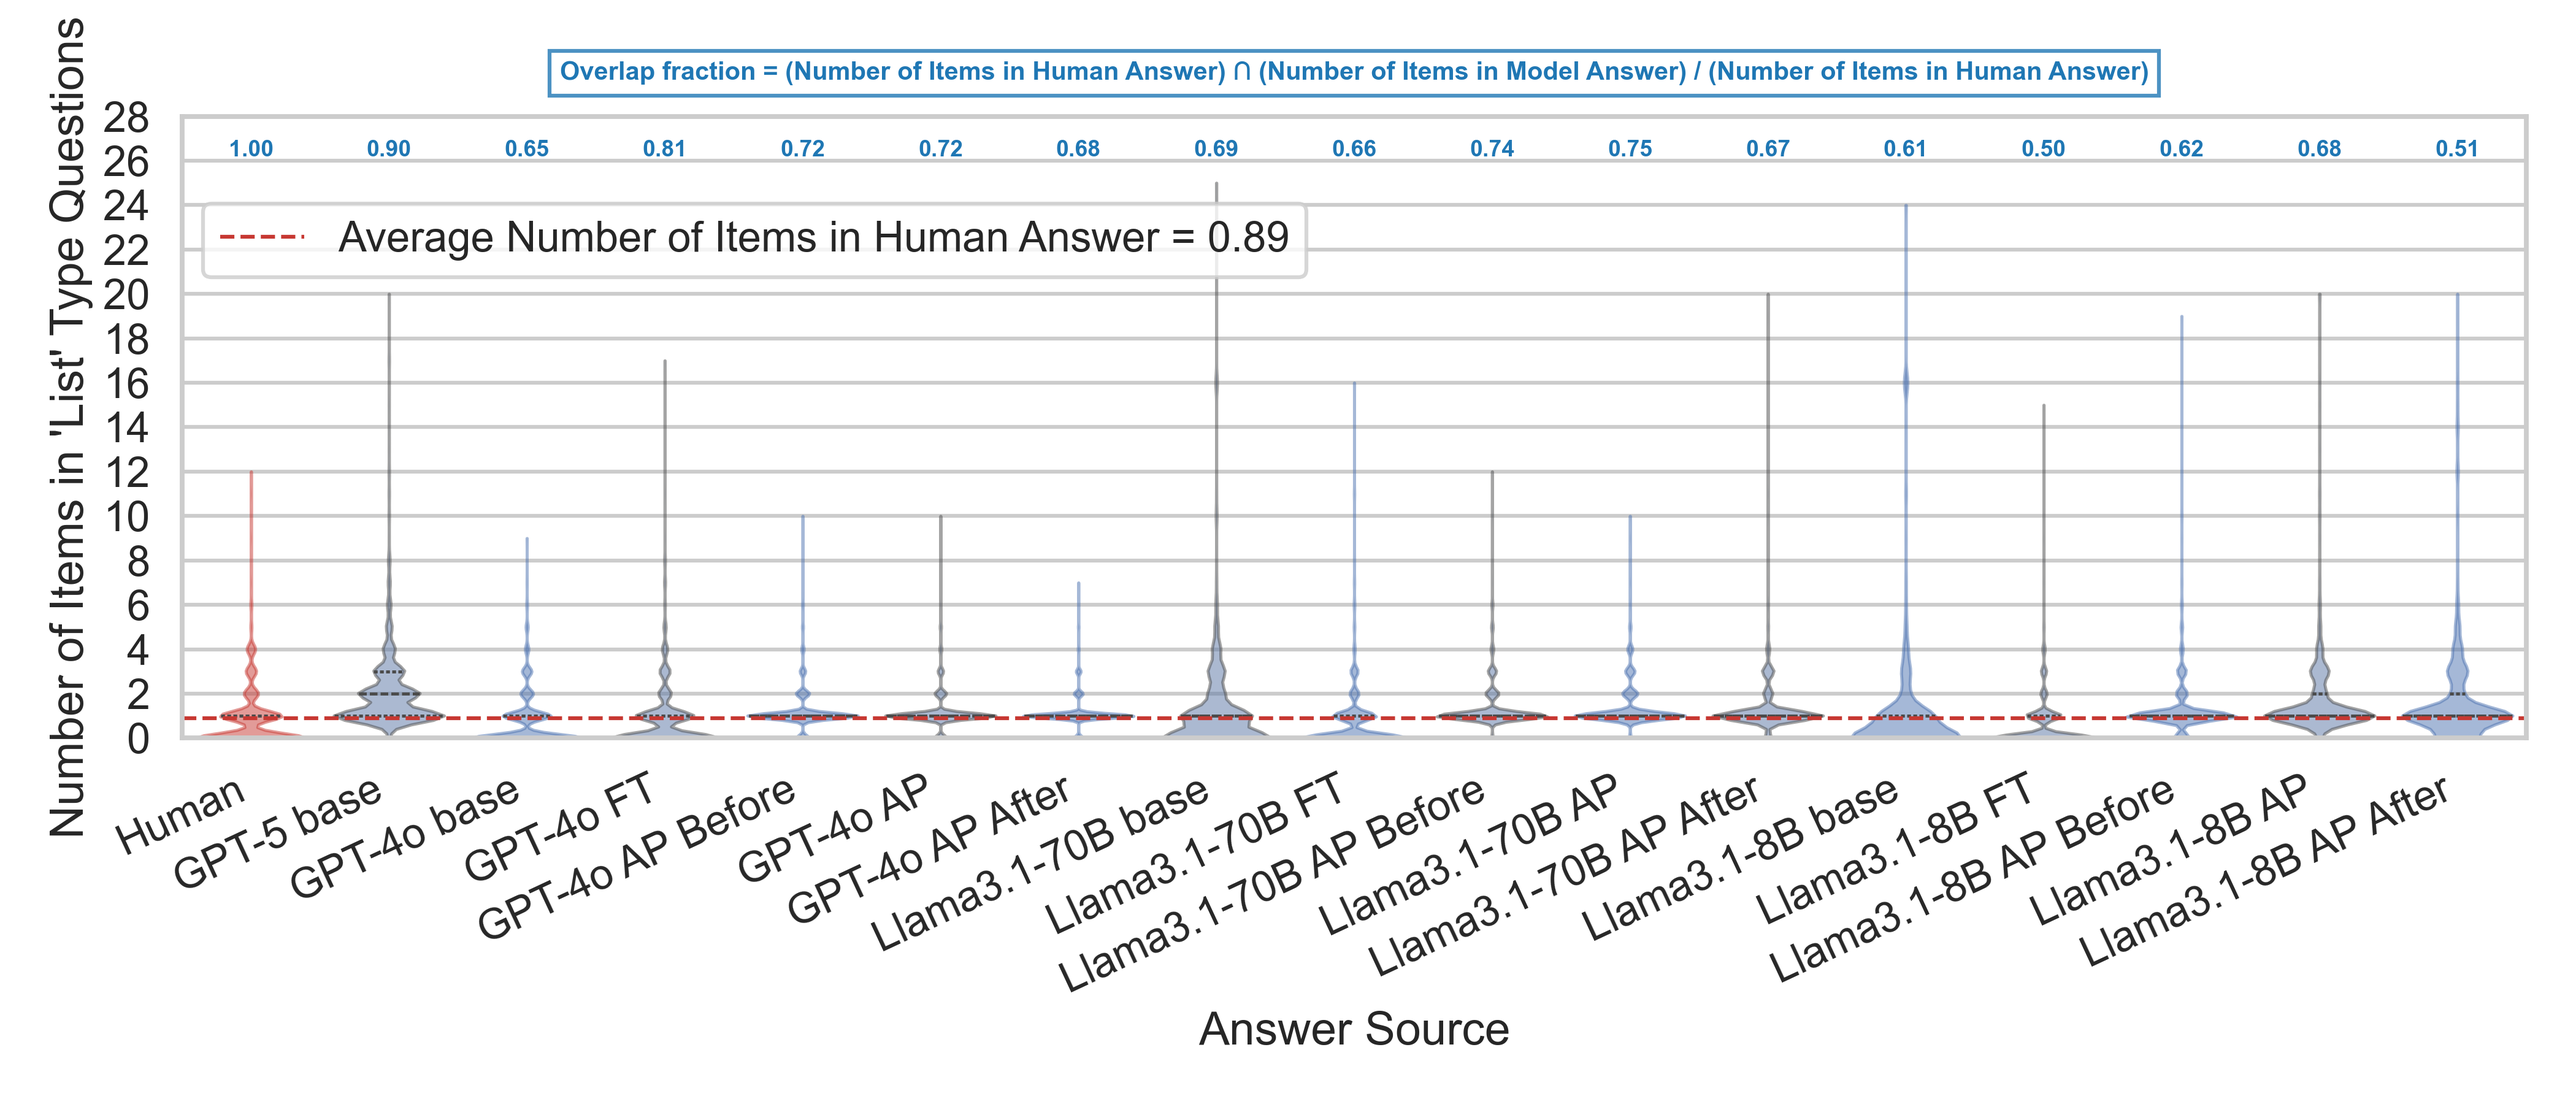
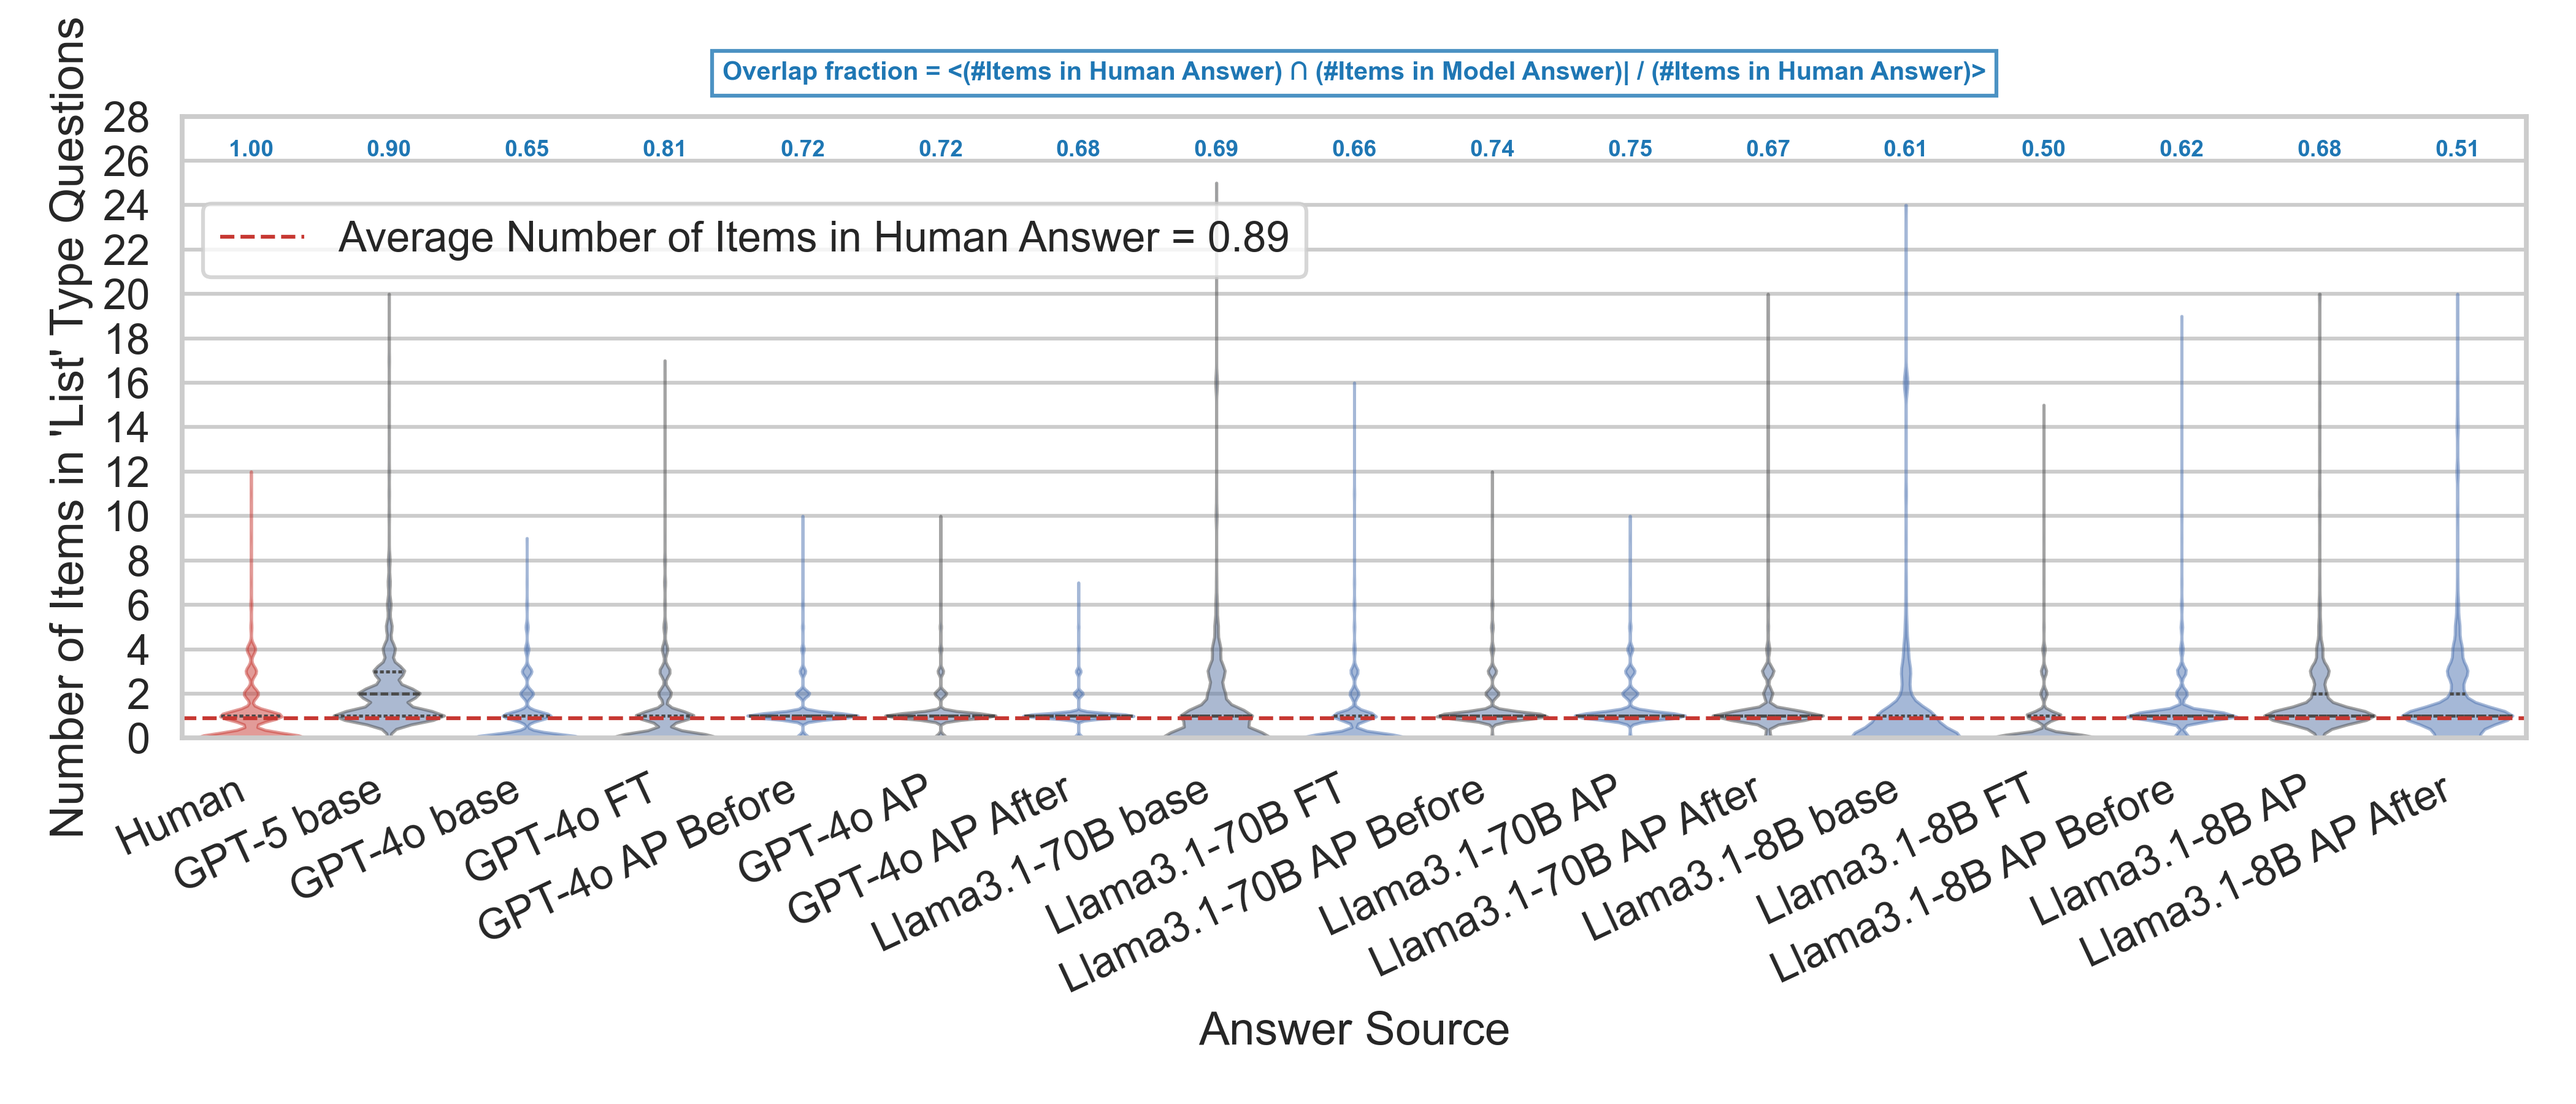
update title

Changed region(s): [[0.2183, 0.0311, 0.8421, 0.0933]]

diff --git a/eval/list_eval_EDA.py b/eval/list_eval_EDA.py
@@ -148,10 +148,10 @@ def plot_violin(plot_df: pd.DataFrame, overlaps: dict[str, float], output_path: 
         )
     max_count = plot_df["Item Count"].max()
     ax.set_ylim(0, max_count + 3)
-    desc = ax.text(
+    ax.text(
         0.5,
         1.05,
-        "Overlap fraction = (Number of Items in Human Answer) ∩ (Number of Items in Model Answer) / (Number of Items in Human Answer)",
+        "Overlap fraction = <(#Items in Human Answer) ∩ (#Items in Model Answer)| / (#Items in Human Answer)>",
         transform=ax.transAxes,
         ha="center",
         va="bottom",
